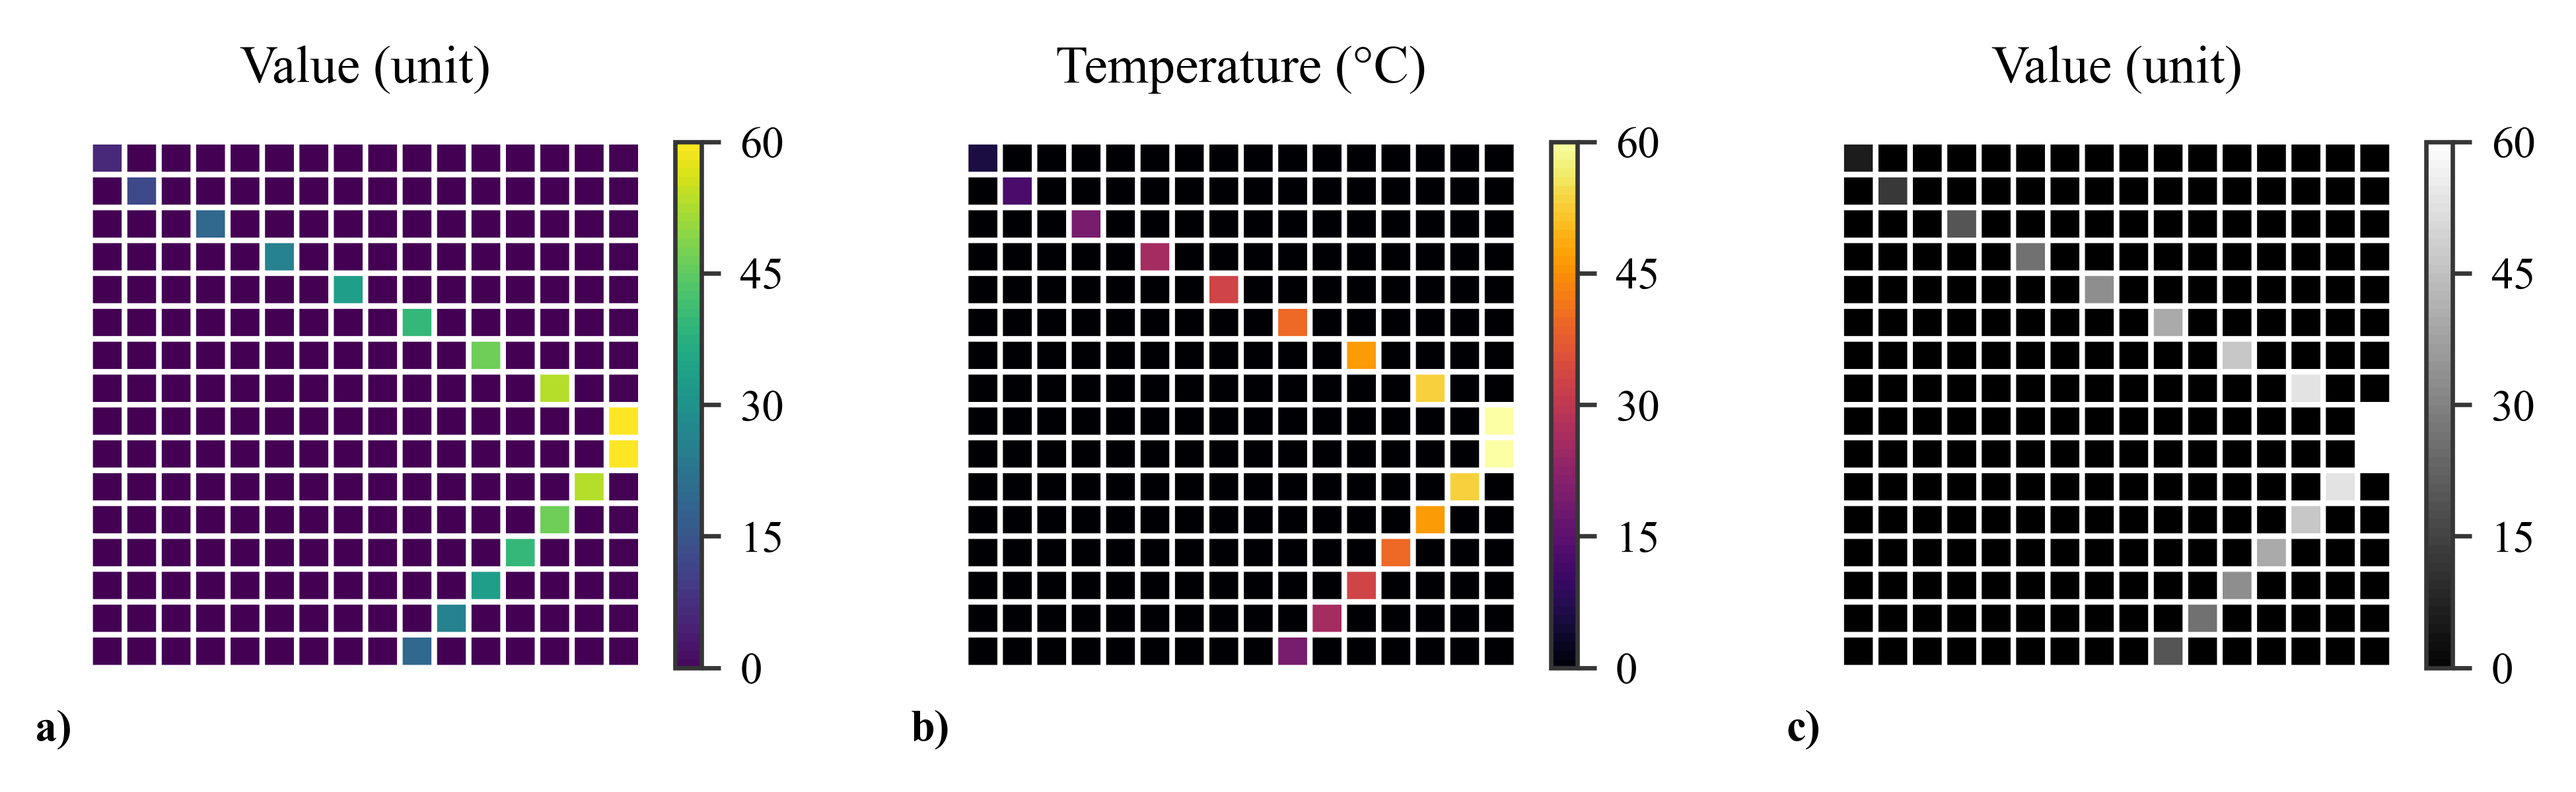
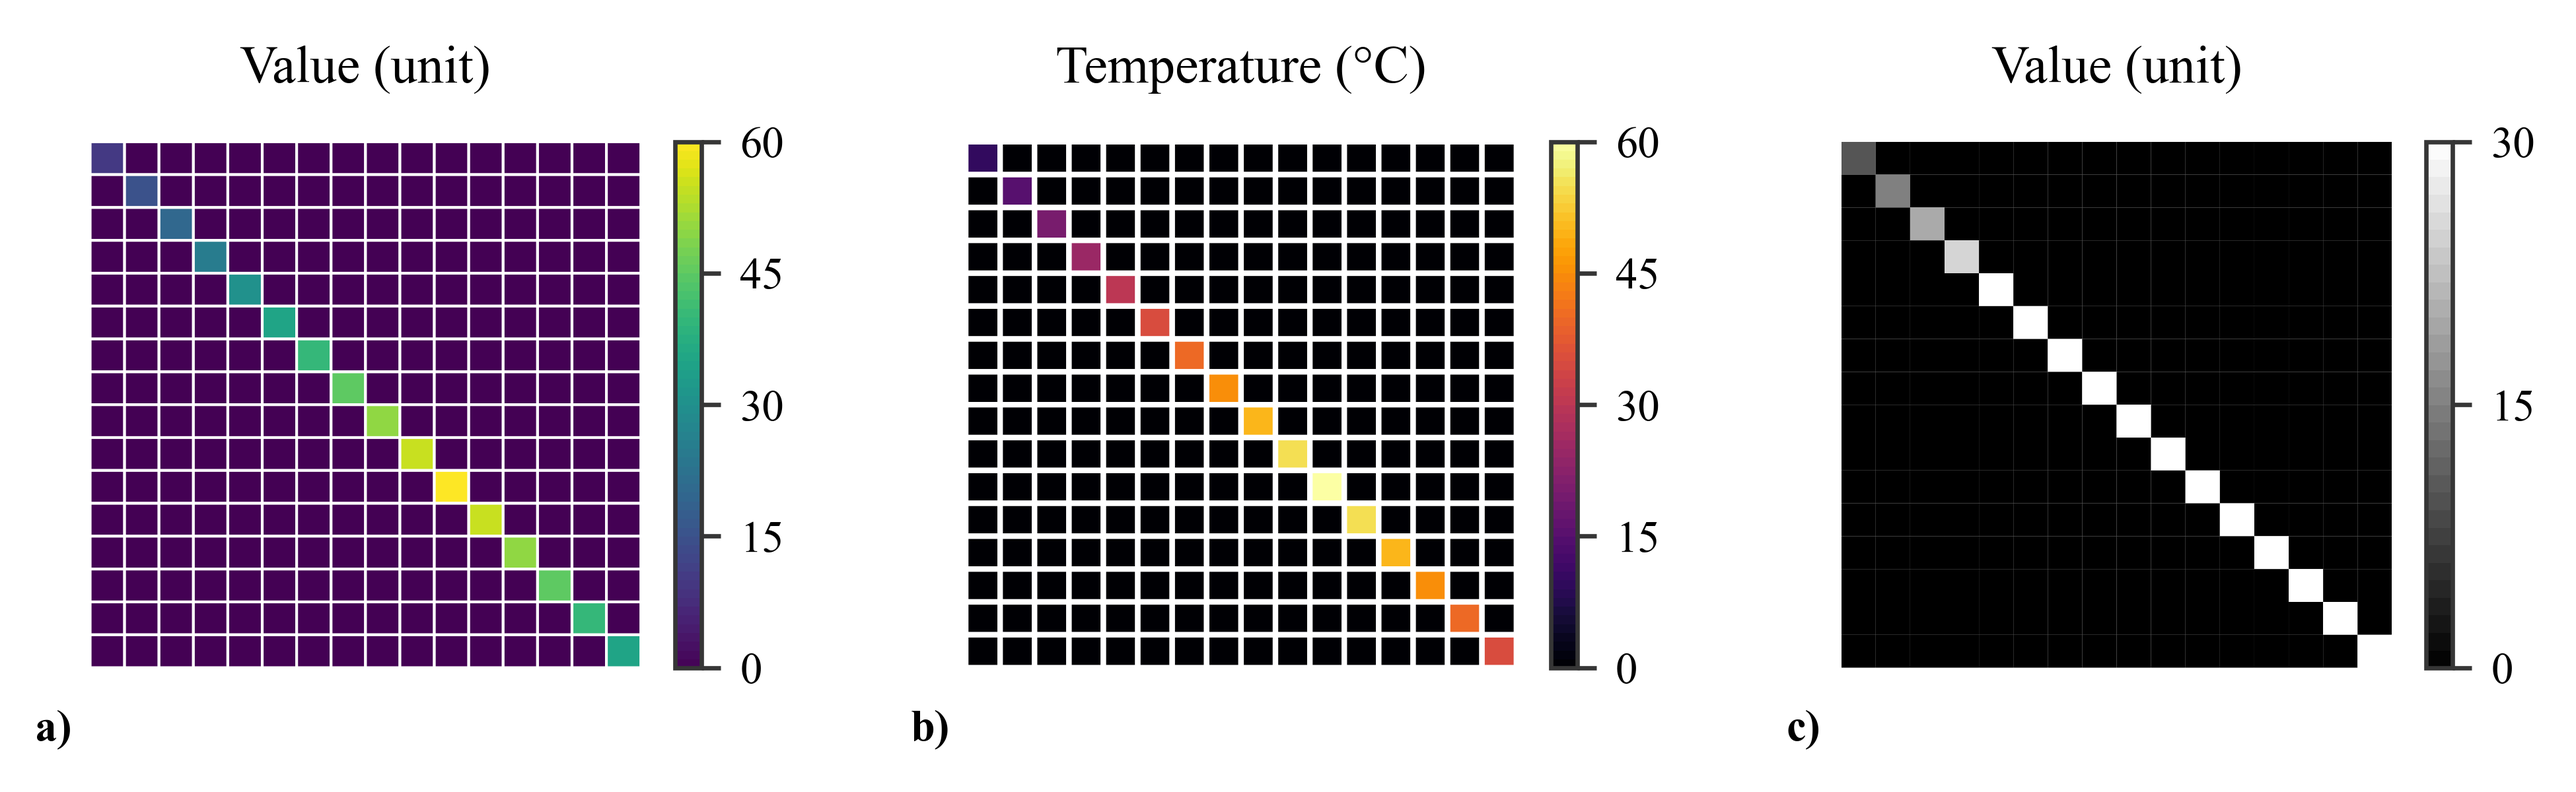
simplyfied plotting heatmaps

diff --git a/intensity_plot/intentsity_plot.py b/intensity_plot/intentsity_plot.py
@@ -52,6 +52,62 @@ def adjust_spines(ax, spines):
         ax.xaxis.set_ticks([])
 
 
+def map_value(value, min_in, max_in, min_out, max_out):
+    if value < min_in:
+        return min_out
+    elif value > max_in:
+        return max_out
+    else:
+        return (value - min_in)*(max_out-min_out)/(max_in-min_in) + min_out
+
+
+def map_nested_list(list_in, min_in, max_in, min_out, max_out):
+    nr_of_rows = len(list_in)
+    nr_of_cols = len(list_in[0])
+
+    print("nr_of_rows = {}".format(nr_of_rows))
+    print("nr_of_cols = {}".format(nr_of_cols))
+
+    mapped_array = []
+
+    for row in range(nr_of_rows):
+        mapped_subarray = []
+        for col in range(nr_of_cols):
+            original_value = list_in[row][col]
+            mapped_value = map_value(original_value, min_in, max_in, min_out, max_out)
+            mapped_subarray.append(mapped_value)
+        mapped_array.append(mapped_subarray)
+    for sublist in mapped_array:
+        print(sublist)
+    return mapped_array
+
+
+
+def plot_heatmap(ax, list_in, min_in, max_in, ticks_scale_bar, colormap, linewidths=1,):
+    mapped_list = map_nested_list(input_list,min_value,max_value,0,1)
+
+    c = ax.pcolor(mapped_list, 
+                    edgecolors='w', 
+                    cmap=colormap,
+                    linewidths=linewidths)
+
+    # Format colarbar on right
+    norm = colors.Normalize(vmin=min_value,vmax=max_value)
+    sm = cm.ScalarMappable(cmap=colormap, norm=norm)
+    sm.set_array([])
+    cb = plt.colorbar(sm, 
+                        ax=ax, 
+                        ticks=((0,15,30,45,60)), 
+                        boundaries=np.arange(0,max_value+1,min_value+1))
+
+    # beautify colorbar
+    # set colorbar label plus label color
+    # cb.set_label('colorbar label', color=axes_font_color)
+    # set colorbar tick color
+    cb.ax.yaxis.set_tick_params(color=axes_font_color)
+    cb.outline.set_edgecolor(axes_font_color)
+
+
 
 # Set default values
 default_font_size = 8
@@ -84,7 +140,6 @@ plt.rcParams.update({'font.size': 8,
 # cm.binary_r
 
 
-
 fig = plt.figure()
 # portrait graph of 3 plots
 fig.set_size_inches(fig_width,fig_height)
@@ -96,100 +151,70 @@ ax3 = plt.subplot(gs[2])
 
 # Generate random data
 
-Z =    [[0.1,0,0,0,0,0,0,0,0,0,0,0,0,0,0,0],
-        [0,0.2,0,0,0,0,0,0,0,0,0,0,0,0,0,0],
-        [0,0,0,0.3,0,0,0,0,0,0,0,0,0,0,0,0],
-        [0,0,0,0,0,0.4,0,0,0,0,0,0,0,0,0,0],
-        [0,0,0,0,0,0,0,0.5,0,0,0,0,0,0,0,0],
-        [0,0,0,0,0,0,0,0,0,0.6,0,0,0,0,0,0],
-        [0,0,0,0,0,0,0,0,0,0,0,0.7,0,0,0,0],
-        [0,0,0,0,0,0,0,0,0,0,0,0,0,0.8,0,0],
-        [0,0,0,0,0,0,0,0,0,0,0,0,0,0,0,0.9],
-        [0,0,0,0,0,0,0,0,0,0,0,0,0,0,0,0.9],
-        [0,0,0,0,0,0,0,0,0,0,0,0,0,0,0.8,0],
-        [0,0,0,0,0,0,0,0,0,0,0,0,0,0.7,0,0],
-        [0,0,0,0,0,0,0,0,0,0,0,0,0.6,0,0,0],
-        [0,0,0,0,0,0,0,0,0,0,0,0.5,0,0,0,0],
-        [0,0,0,0,0,0,0,0,0,0,0.4,0,0,0,0,0],
-        [0,0,0,0,0,0,0,0,0,0.3,0,0,0,0,0,0],]
-
+input_list =    [[10,0,0,0,0,0,0,0,0,0,0,0,0,0,0,0],
+                [0,15,0,0,0,0,0,0,0,0,0,0,0,0,0,0],
+                [0,0,20,0,0,0,0,0,0,0,0,0,0,0,0,0],
+                [0,0,0,25,0,0,0,0,0,0,0,0,0,0,0,0],
+                [0,0,0,0,30,0,0,0,0,0,0,0,0,0,0,0],
+                [0,0,0,0,0,35,0,0,0,0,0,0,0,0,0,0],
+                [0,0,0,0,0,0,40,0,0,0,0,0,0,0,0,0],
+                [0,0,0,0,0,0,0,45,0,0,0,0,0,0,0,0],
+                [0,0,0,0,0,0,0,0,50,0,0,0,0,0,0,0],
+                [0,0,0,0,0,0,0,0,0,55,0,0,0,0,0,0],
+                [0,0,0,0,0,0,0,0,0,0,60,0,0,0,0,0],
+                [0,0,0,0,0,0,0,0,0,0,0,55,0,0,0,0],
+                [0,0,0,0,0,0,0,0,0,0,0,0,50,0,0,0],
+                [0,0,0,0,0,0,0,0,0,0,0,0,0,45,0,0],
+                [0,0,0,0,0,0,0,0,0,0,0,0,0,0,40,0],
+                [0,0,0,0,0,0,0,0,0,0,0,0,0,0,0,35],]
 
 
 # Plot 1
-colormap1 = cm.viridis
 
-c = ax1.pcolor(Z, 
-                edgecolors='w', 
-                cmap=colormap1,
-                linewidths=1)
+ticks = (0,15,30)
+max_value = 60
+min_value = 0
 
-# Format colarbar on right
-norm = colors.Normalize(vmin=-1,vmax=60)
-sm = cm.ScalarMappable(cmap=colormap1, norm=norm)
-sm.set_array([])
-cb = plt.colorbar(sm, 
-                    ax=ax1, 
-                    ticks=((0,15,30,45,60)), 
-                    boundaries=np.arange(0,61,1))
+plot_heatmap(ax=ax1, 
+                list_in=input_list, 
+                min_in=0, 
+                max_in=60, 
+                colormap=cm.viridis,
+                ticks_scale_bar=(0,15,30,45,60),
+                linewidths=0.5)
 
-# beautify colorbar
-# set colorbar label plus label color
-# cb.set_label('colorbar label', color=axes_font_color)
-# set colorbar tick color
-cb.ax.yaxis.set_tick_params(color=axes_font_color)
-cb.outline.set_edgecolor(axes_font_color)
 
 
 # Plot 2
-colormap2 = cm.inferno
-c = ax2.pcolor(Z, 
-                edgecolors='w', 
-                cmap=colormap2,
+ticks = (0,15,30)
+max_value = 60
+min_value = 0
+
+plot_heatmap(ax=ax2, 
+                list_in=input_list, 
+                min_in=0, 
+                max_in=60, 
+                colormap=cm.inferno,
+                ticks_scale_bar=(0,15,30,45,60),
                 linewidths=1)
-
-# Format colarbar on right
-norm = colors.Normalize(vmin=-1,vmax=60)
-sm = cm.ScalarMappable(cmap=colormap2, norm=norm)
-sm.set_array([])
-cb = plt.colorbar(sm, 
-                    ax=ax2, 
-                    ticks=((0,15,30,45,60)), 
-                    boundaries=np.arange(0,61,1))
-
-# beautify colorbar
-# set colorbar label plus label color
-# cb.set_label('colorbar label', color=axes_font_color)
-# set colorbar tick color
-cb.ax.yaxis.set_tick_params(color=axes_font_color)
-cb.outline.set_edgecolor(axes_font_color)
-
 
 
 # Plot 3
-colormap3 = cm.binary_r
-c = ax3.pcolor(Z, 
-                edgecolors='w', 
-                cmap=colormap3,
-                linewidths=1)
+ticks = (0,15,30)
+max_value = 30 # values will clip at 30
+min_value = 0
 
-# Format colarbar on right
-norm = colors.Normalize(vmin=-1,vmax=60)
-sm = cm.ScalarMappable(cmap=colormap3, norm=norm)
-sm.set_array([])
-cb = plt.colorbar(sm, 
-                    ax=ax3, 
-                    ticks=((0,15,30,45,60)), 
-                    boundaries=np.arange(0,61,1))
+plot_heatmap(ax=ax3, 
+                list_in=input_list, 
+                min_in=0, 
+                max_in=60, 
+                colormap=cm.binary_r,
+                ticks_scale_bar=(0,15,30,45,60),
+                linewidths=0)
 
-# beautify colorbar
-# set colorbar label plus label color
-# cb.set_label('colorbar label', color=axes_font_color)
-# set colorbar tick color
-cb.ax.yaxis.set_tick_params(color=axes_font_color)
-cb.outline.set_edgecolor(axes_font_color)
+
 
 # Add graph labels and annotations
-
 # Plot 1
 set_graph_letter(ax1, "a)")
 ax1.set_title("Value (unit)", y=1.05)

diff --git a/README.md b/README.md
@@ -45,21 +45,21 @@ items = [
 - Enter data as 2D array
 ```
 # Example 16 x 16 array
-Z =    [[0.1,0,0,0,0,0,0,0,0,0,0,0,0,0,0,0],
-        [0,0.2,0,0,0,0,0,0,0,0,0,0,0,0,0,0],
-        [0,0,0,0.3,0,0,0,0,0,0,0,0,0,0,0,0],
-        [0,0,0,0,0,0.4,0,0,0,0,0,0,0,0,0,0],
-        [0,0,0,0,0,0,0,0.5,0,0,0,0,0,0,0,0],
-        [0,0,0,0,0,0,0,0,0,0.6,0,0,0,0,0,0],
-        [0,0,0,0,0,0,0,0,0,0,0,0.7,0,0,0,0],
-        [0,0,0,0,0,0,0,0,0,0,0,0,0,0.8,0,0],
-        [0,0,0,0,0,0,0,0,0,0,0,0,0,0,0,0.9],
-        [0,0,0,0,0,0,0,0,0,0,0,0,0,0,0,0.9],
-        [0,0,0,0,0,0,0,0,0,0,0,0,0,0,0.8,0],
-        [0,0,0,0,0,0,0,0,0,0,0,0,0,0.7,0,0],
-        [0,0,0,0,0,0,0,0,0,0,0,0,0.6,0,0,0],
-        [0,0,0,0,0,0,0,0,0,0,0,0.5,0,0,0,0],
-        [0,0,0,0,0,0,0,0,0,0,0.4,0,0,0,0,0],
-        [0,0,0,0,0,0,0,0,0,0.3,0,0,0,0,0,0],]
+input_list =   [[0.1,0,0,0,0,0,0,0,0,0,0,0,0,0,0,0],
+                [0,0.2,0,0,0,0,0,0,0,0,0,0,0,0,0,0],
+                [0,0,0,0.3,0,0,0,0,0,0,0,0,0,0,0,0],
+                [0,0,0,0,0,0.4,0,0,0,0,0,0,0,0,0,0],
+                [0,0,0,0,0,0,0,0.5,0,0,0,0,0,0,0,0],
+                [0,0,0,0,0,0,0,0,0,0.6,0,0,0,0,0,0],
+                [0,0,0,0,0,0,0,0,0,0,0,0.7,0,0,0,0],
+                [0,0,0,0,0,0,0,0,0,0,0,0,0,0.8,0,0],
+                [0,0,0,0,0,0,0,0,0,0,0,0,0,0,0,0.9],
+                [0,0,0,0,0,0,0,0,0,0,0,0,0,0,0,0.9],
+                [0,0,0,0,0,0,0,0,0,0,0,0,0,0,0.8,0],
+                [0,0,0,0,0,0,0,0,0,0,0,0,0,0.7,0,0],
+                [0,0,0,0,0,0,0,0,0,0,0,0,0.6,0,0,0],
+                [0,0,0,0,0,0,0,0,0,0,0,0.5,0,0,0,0],
+                [0,0,0,0,0,0,0,0,0,0,0.4,0,0,0,0,0],
+                [0,0,0,0,0,0,0,0,0,0.3,0,0,0,0,0,0],]
 ```
 <img src="https://github.com/GillesOdb/clean-matplotlib-plots/blob/main/intensity_plot/output_plot.png" width="600">
